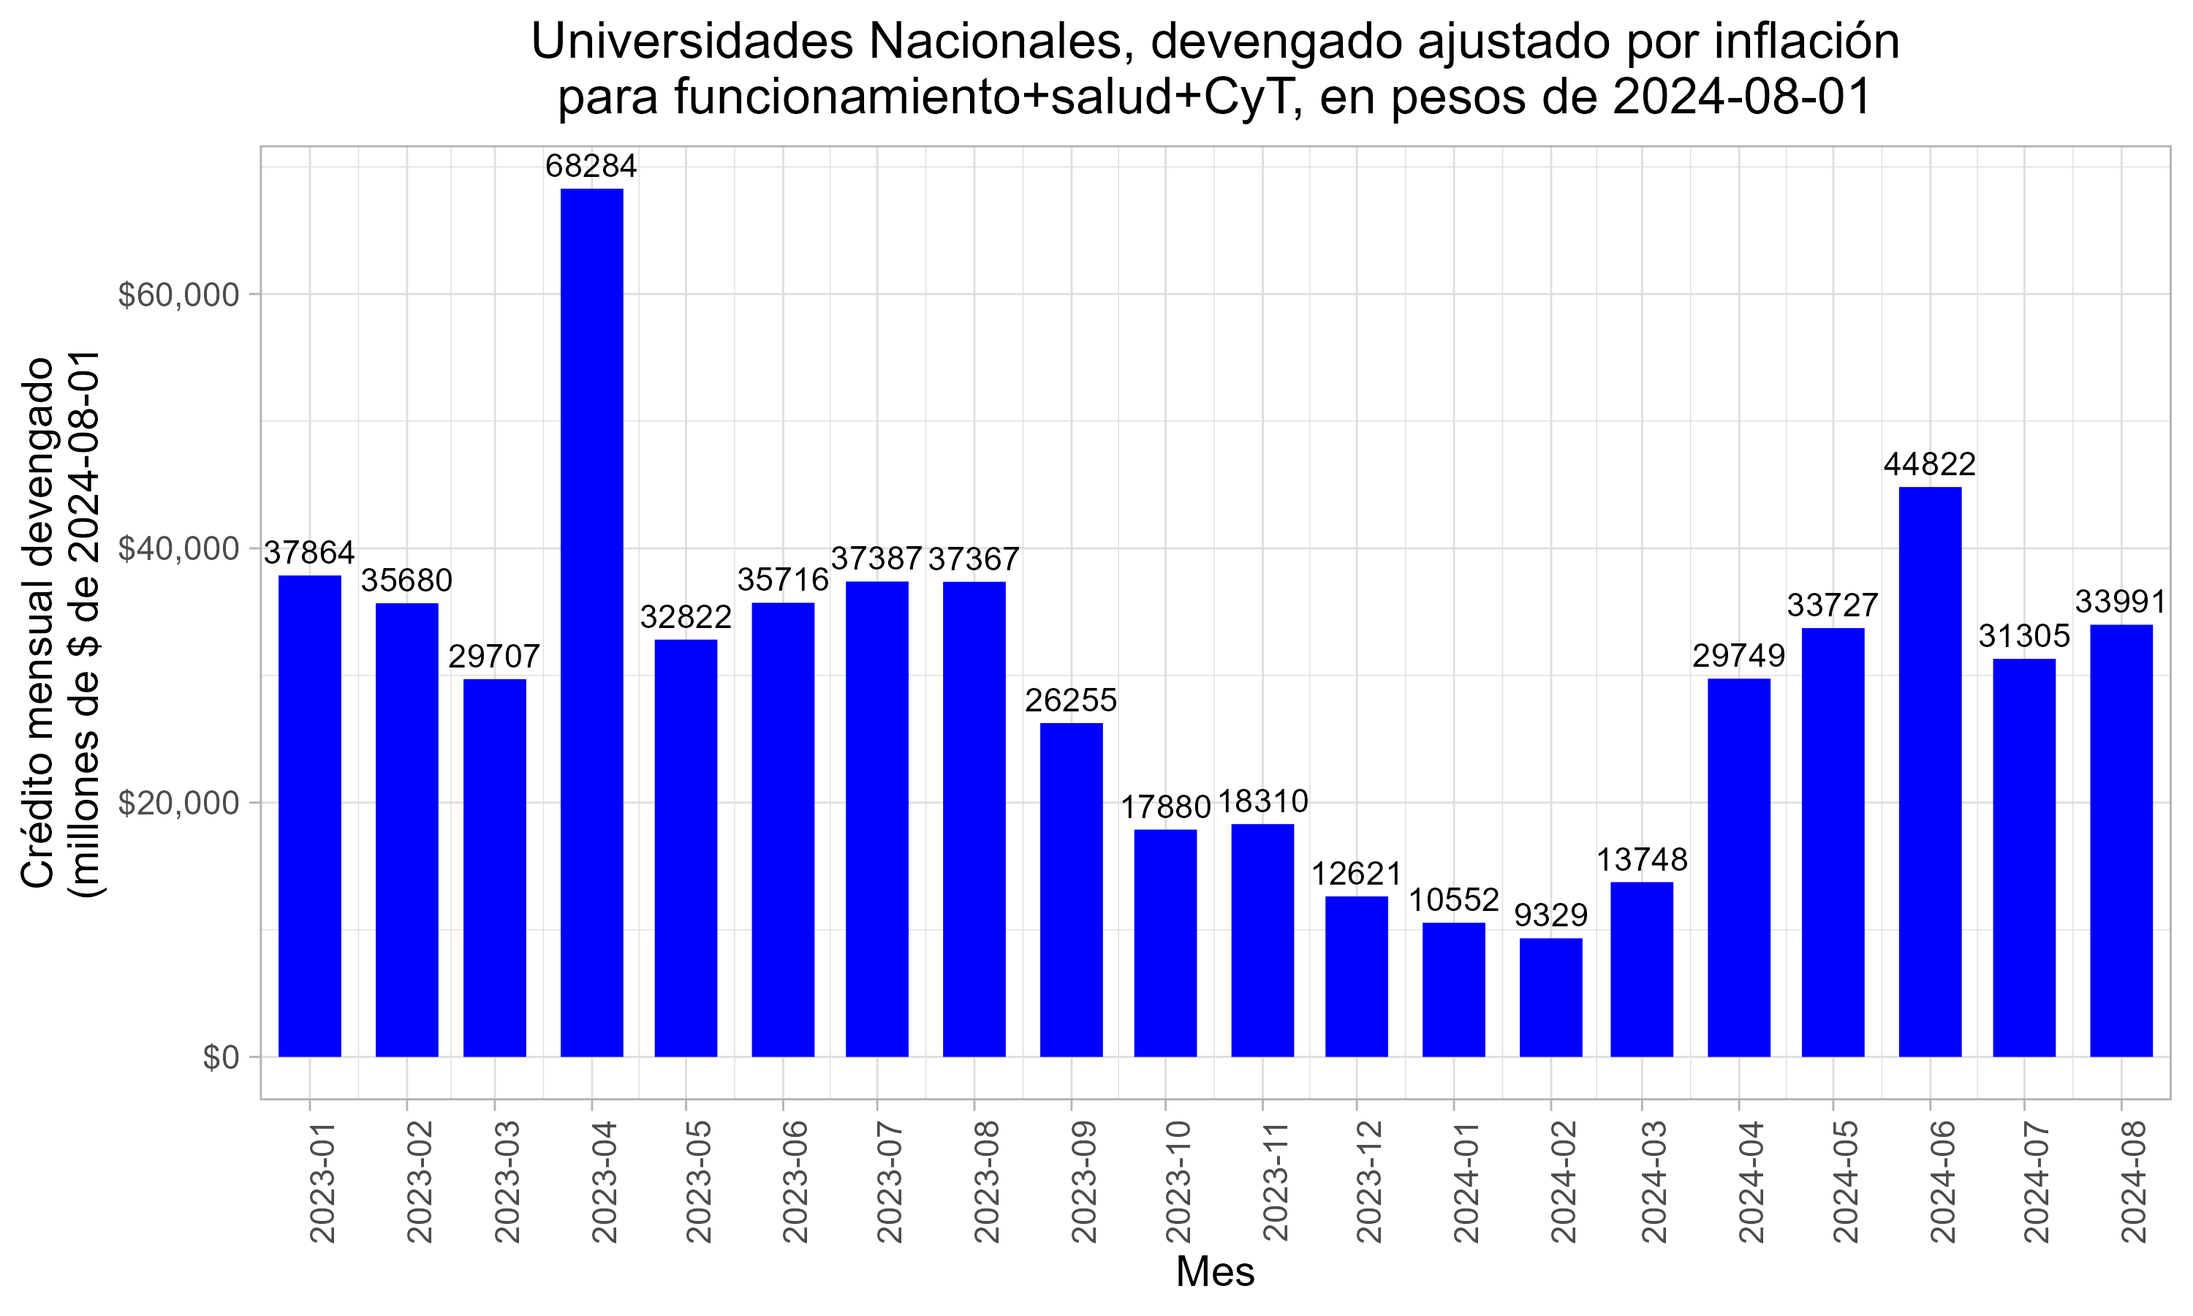
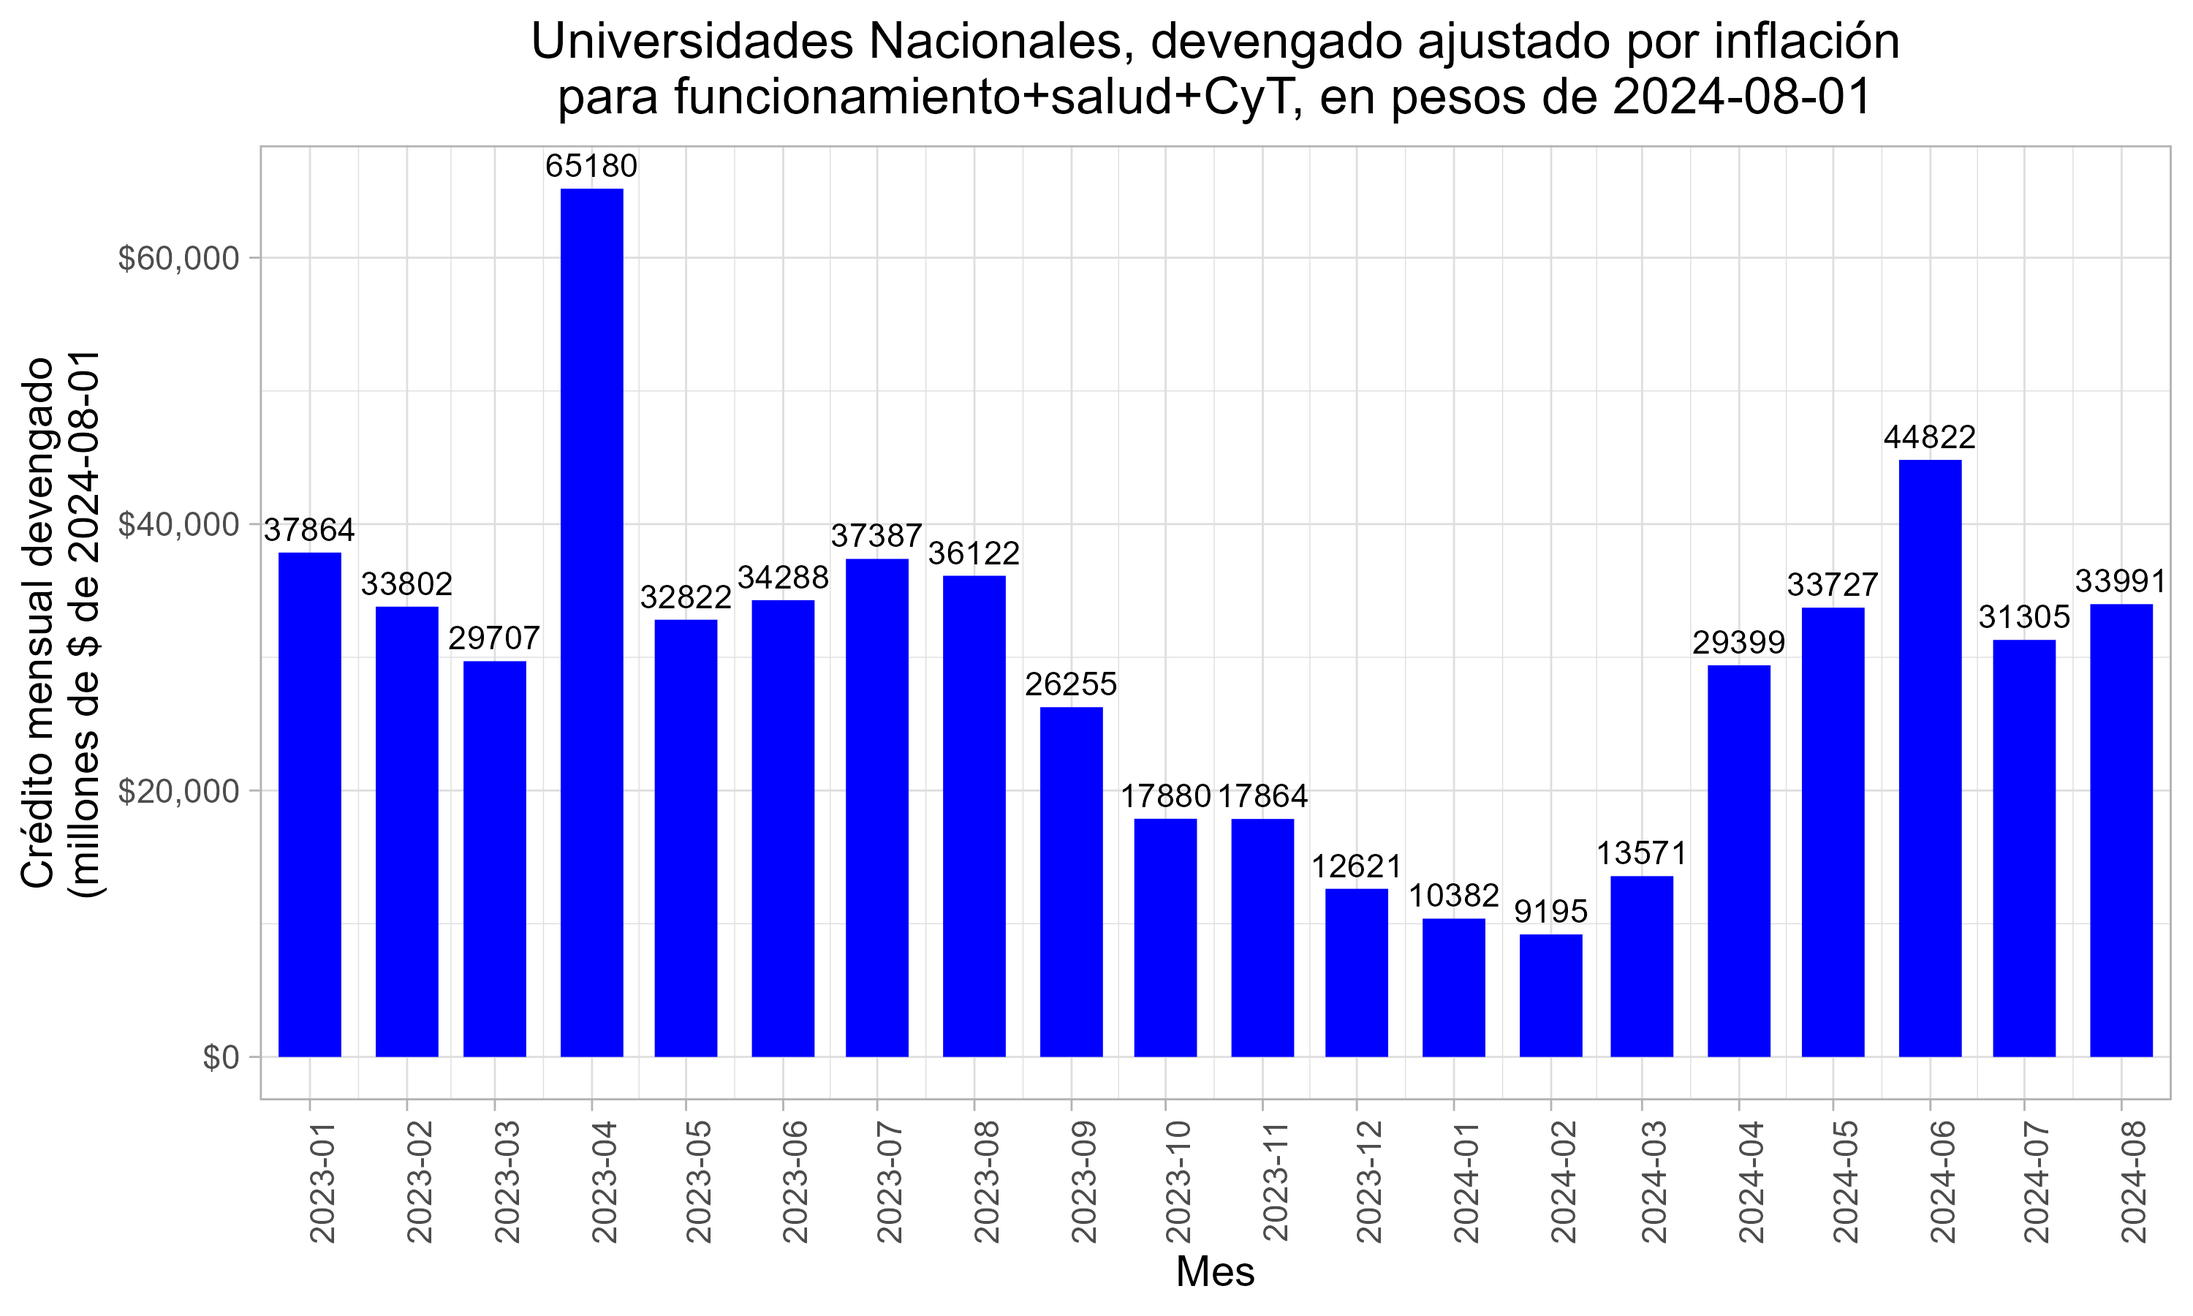
actualizo README

diff --git a/README.md b/README.md
@@ -1,7 +1,7 @@
 Ejecución presupuestaria 2024: Universidades Nacionales argentinas
 =================================================================================
 
-Última actualización 24/04/2024
+Última actualización 11/09/2024
 
  **Dr. Rodrigo Quiroga**  
  Investigador Asistente INFIQC-CONICET  
@@ -57,56 +57,60 @@ También es importante explicar que las Universidades Nacionales en muchos casos
 
 En el siguiente gráfico observamos el presupuesto mensual real (ajustado por inflación) para funcionamiento de todas las Universidades Nacionales del país. Se grafica también el promedio mensual 2023 como una línea punteada verde. Vemos que como explicamos en la introducción, el presupuesto de funcionamiento se fija en 12 cuotas iguales, por lo que los montos ajustados por inflación están por arriba del promedio anual durante los primeros meses del año y luego caen por debajo. Esto ocurre TODOS LOS AÑOS. Lo que no ocurrió, fue el aumento normal que ocurre con un nuevo presupuesto, que debería haber entrado en vigencia en enero de 2024.
 
-![plot](https://github.com/rquiroga7/presupuesto_UNC/blob/main/plot_14_70p_prom.png)
+![plot](https://github.com/rquiroga7/presupuesto_UNC/blob/main/plots/plot_14_70p_prom.png)
 
-Vemos que en Marzo de 2024, se otorgó un aumento del 70% del presupuesto mensual de funcionamiento equivalente a aprox 4 mil millones de pesos. Sin embargo, al ajustar por inflación, observamos que el presupuesto mensual para funcionamiento quedó licuado por la inflación. El monto devengado para funcionamiento en marzo representa aprox el 60% del promedio de 2023. Para equipararse con ese promedio, el aumento debiera haber sido no de 4 mil millones sino de 14 mil millones!
+Vemos que en Marzo de 2024 y en Mayo (luego de la masiva marcha federal universitaria) se otorgaron aumentos del presupuesto mensual de funcionamiento que equiparan aproximadamente los montos recibidos mensualmente durante 2023.
 
-Lo que significa esto a fines prácticos es que las universidades han tenido que suspender actividades y/o están gastando ahorros para cubrir esa diferencia mensual entre lo que recibían el año pasado y éste. Esa diferencia fue de aprox 12 mil millones en enero y febrero y 9 mil millones en marzo. La situación es crítica!
+Además, vale aclarar que con los [aumentos de tarifas de servicios previstos para 2024](https://www.infobae.com/economia/2024/04/05/tarifas-de-gas-todo-lo-que-hay-que-saber-y-de-cuanto-seran-los-nuevos-aumentos/), y el hecho de que [el gobierno eliminó a las instituciones educativas de los subsidios de energía eléctrica](https://www.datadiario.com/sociedad/aumentan-las-facturas-de-luz-para-usuarios-de-mayores-ingresos-20242518120), incluso estos aumentos otorgados resultan insuficientes para afrontar los costos de funcionamiento que aumentaron por encima de la inflación durante 2024.
 
-El nuevo aumento que prometió el gobierno para mayo es nuevamente de 4 mil millones. El presupuesto de funcionamiento de mayo sería aprox de 14 mil millones, pero previendo una inflación de 8% en abril y mayo, eserían necesarios 22 mil millones para equiparar los montos reales de 2023. 
-
-Es decir, para equiparar el presupuesto de funcionamiento 2023, el aumento de mayo debería ser de 12 mil millones en lugar de los 4 mil que anunció el gobierno.
-
-Además, vale aclarar que con los [aumentos de tarifas de servicios previstos para 2024](https://www.infobae.com/economia/2024/04/05/tarifas-de-gas-todo-lo-que-hay-que-saber-y-de-cuanto-seran-los-nuevos-aumentos/), y el hecho de que [el gobierno eliminó a las instituciones educativas de los subsidios de energía eléctrica](https://www.datadiario.com/sociedad/aumentan-las-facturas-de-luz-para-usuarios-de-mayores-ingresos-20242518120), incluso un nuevo aumento del 120% podría ser insuficiente para afrontar los costos operativos del año 2024.
-
-Como vemos, es absolutamente falso lo que declaró el Secretario de Educación Carlos Torrendel el 8 de abril [aquí](https://twitter.com/somoscorta/status/1777322866268139561). Sin dudas existe una política de desfinanciamiento presupuestario de las Universidades, y la situación es absolutamente crítica. Actualmente las Universidades Nacionales están gastando ahorros para poder seguir funcionando en este contexto, y en estos días se difundió la [noticia](https://www.lmneuquen.com/neuquen/no-la-dejemos-morir-la-universidad-nacional-del-comahue-entro-cesacion-pagos-n1104420) de que la Universidad Nacional del Comahue entró en cesación de pagos por no poder afrontar las boletas de servicios. Es la primera Universidad en esta situación, pero si no hay un nuevo aumento urgente del presupuesto de funcionamiento (que debería ser mayor al 70%), seguramente entrarán en cesación de pagos muchas otras universidades y será imposible afrontar la continuidad de las clases en el segundo cuatrimestre del año. 
 </div>
 
 Presupuesto total
 -----------------
-Otro punto importante para aclarar, es que numerosos funcionarios del gobierno nacional están repitiendo el dato falso "en marzo hubo un aumento del 70% del presupuesto universitario", incluso [repetido por el vocero presidencial en conferencia de prensa](https://x.com/somoscorta/status/1776262854003310864). Como vimos arriba, esto es falso porque el aumento del 70% era del presupuesto de funcionamiento, y ese aumento está MUY por debajo del aumento necesario para compensar la inflación y aumento de tarifas. Un aumento nominal similar (de 4 mil millones de pesos) fue anunciado para el mes de mayo de manera no oficial, ya que [dicho aumento aún no fue comunicado formalmente al CIN](https://x.com/CINoficial/status/1781155100582359130).
 
-En el siguiente gráfico observamos el presupuesto mensual real total (ajustado por inflación), de todas las Universidades Nacionales del país. Se grafica también el promedio mensual 2023 como una línea punteada verde (calculado sobre los meses sin aguinaldo). Vemos que como explicamos en la introducción, el presupuesto de funcionamiento se fija en 12 cuotas iguales, por lo que los montos ajustados por inflación están por arriba del promedio anual durante los primeros meses del año y luego caen por debajo. Esto ocurre TODOS LOS AÑOS. Lo que no ocurrió fue el aumento normal que ocurre con un nuevo presupuesto, que debería haber entrado en vigencia en enero de 2024.
+En el siguiente gráfico observamos el presupuesto mensual real total (ajustado por inflación), de todas las Universidades Nacionales del país. Se grafica también el promedio mensual 2023 como una línea punteada verde (calculado sobre los meses sin aguinaldo). Vemos que los presupuestos mensuales asignados están muy por debajo de 2023.
 
-![plot](https://github.com/rquiroga7/presupuesto_UNC/blob/main/plot_all_70p_prom.png)
+![plot](https://github.com/rquiroga7/presupuesto_UNC/blob/main/plots/plot_all_70p_prom.png)
 
 
-**Como vemos en el gráfico, el aumento del 70% anunciado por el gobierno con bombos y platillos en realidad representa un aumento del 2.2% del presupuesto total!**
-No sólo eso, sino que el presupuesto real de marzo está por debajo del presupuesto real de febrero, debido a que los aumentos nominales fueron menores a la inflación de marzo (11.7%). Es claro que los aumentos ofrecidos por el gobierno en marzo y mayo, de 4000 millones de pesos cada uno, representan un porcentaje ínfimo del monto perdido por inflación en comparación al 2023, que es de aproximadamente 80 mil millones de pesos mensuales!
+**Como vemos en el gráfico, los aumentos de gastos de funcionamiento de marzo y mayo (acumulando un 270% aumento interanual) anunciado por el gobierno con bombos y platillos, en realidad representan un aumento del 2.2% del presupuesto total!**
+Es claro que los aumentos ofrecidos por el gobierno en marzo y mayo, representan un porcentaje ínfimo del monto perdido por inflación en comparación al 2023, que es de aproximadamente 80 mil millones de pesos mensuales!
 
 Ejecución presupuestaria anual para el período 2017-2024
 ============
 
-Para poner en contexto histórico el presupuesto 2024, realizamos el siguiente ejercicio. Realizamos la optimista presunción de que el presupuesto se ajustaría por inflación (IPC) a partir de abril, y comparamos ese presupuesto anual ajustado por inflación con años anteriores. Es decir, calculamos cual sería el presupuesto anual para 2024 si no hay aumentos del presupuesto y si a partir de abril se ajusta por IPC. Analizamos primero el presupuesto de funcionamiento y luego el presupuesto total. La proyección anual se realiza teniendo en cuenta tanto el aumento de marzo como el prometido para mayo de 2024.
+Para poner en contexto histórico el presupuesto 2024, realizamos el siguiente ejercicio. Realizamos la optimista presunción de que el presupuesto se ajustaría por inflación (IPC) a partir de octubre, y comparamos ese presupuesto anual ajustado por inflación con años anteriores. Es decir, calculamos cual sería el presupuesto anual para 2024 si no hay aumentos del presupuesto y si a partir de octubre se ajusta por IPC. Estimo el presupuesto de diciembre como noviembre*1.60 debido al medio aguinaldo. 
 
-Presupuesto de funcionamiento (act 14):
-![plot](https://github.com/rquiroga7/presupuesto_UNC/blob/main/presupuesto_anual_func_2017-2024.png)
+Presupuesto total:
+![plot](https://github.com/rquiroga7/presupuesto_UNC/blob/main/plots/presupuesto_anual_2017-2024.png)
 
-Observamos que sin aumentos adicionales, a pesar del aumento de 70% de marzo y el prometido para mayo, el presupuesto de funcionamiento ajustado por inflación para 2024 equivale aproximadamente al 60% del presupuesto de 2023. También podemos observar que el presupuesto de funcionamiento 2024 sería incluso inferior al de 2020, cuando en plena pandemia las Universidades no funcionaron de manera presencial! Debería quedar claro que las Universidades son objeto de un ajuste presupuestario fenomenal, lo cual también confirma las afirmaciones del rector y vicerector de la UBA, quienes dijeron que [sin aumentos presupuestarios significativos será imposible afrontar un funcionamiento normal durante el segundo cuatrimestre](https://www.pagina12.com.ar/726980-la-universidad-publica-al-borde-del-abismo).
+De no haber significativos aumentos durante 2024, el presupuesto universitario del corriente año sería por lejos el menor desde que se comenzaron a recopilar datos de Presupuesto Abierto. El presupuesto ajustado por inflación de 2024 representaría el 80% del presupuesto 2023.
 
-Respecto al Presupuesto total:
-![plot](https://github.com/rquiroga7/presupuesto_UNC/blob/main/presupuesto_anual_2017-2024.png)
 
-De no haber significativos aumentos durante 2024, el presupuesto universitario del corriente año sería por lejos el menor desde que se comenzaron a recopilar datos de Presupuesto Abierto. El presupuesto ajustado por inflación de 2024 representaría el 62% del presupuesto 2023.
+Podemos analizar estos mismos datos con base 100 = el presupuesto de 2017. Este gráfico es un poco más intuitivo. Lo que observamos es que el presupuesto cayó enormemente durante 2019, creció levemente desde 2020-2023 y vuelve a caer fuertemente en 2024.
 
+![plot](https://github.com/rquiroga7/presupuesto_UNC/blob/main/plots/presupuesto_anual_100_2017-2024.png)
+
+
+Sin embargo, esto no alcanza para dimensionar por completo la magnitud de la crisis universitaria, dado que el número de alumnos del sistema universitario nacional ha aumentado considerablemente desde 2017. Realizando el mismo análisis de arriba, pero ajustamos el presupuesto por inflación, pero también por el número total de alumnos universitarios, nuevamente tomando el presupuesto por alumno del año 2017 como base = 100.
+
+![plot](https://github.com/rquiroga7/presupuesto_UNC/blob/main/plots/presupuesto_anual_porest_100_2017-2024.png)
+
+Aquí sí podemos dimensionar la crisis presupuestaria del sistema universitario, observamos que por cada 100 pesos por estudiante que recibían las universidades en 2017, hoy se reciben 48, es decir, menos de la mitad. 
 
 Consideraciones finales
 ============
 
 Aquí termina la parte analítica del informe y comienza una sección con opiniones personales. **La situación presupuestaria de las Universidades es crítica.** Ya se encuentran suspendidos programas valiosísimos de becas, investigación y extensión universitaria, pero aún así, el presupuesto es tan escueto que las universidades están gastando ahorros para poder pagar las tarifas de servicios básicos. Ya entró en cesación de pagos la Universidad Nacional del Comahue, a pesar de que aún no entran en efecto los incrementos de tarifas programados por el gobierno para este año. 
-**Sería necesario un nuevo aumento de 120% (o más, dependiendo de los aumentos de tarifas) del presupuesto de funcionamiento para asegurar la continuidad de las clases durante la segunda mitad del año 2024. De no ocurrir, muchas Universidades deberían cerrar sus puertas para el segundo cuatrimestre.** Esto no es "campaña de miedo" sino un necesario llamado de atención sobre el ajuste *que ya efectuó* el gobierno nacional, pero cuyos efectos aún no vemos en la práctica en algunas universidades simplemente porque aún tienen ahorros para mantener abiertas sus puertas. El CIN debe nuevamente motorizar estos reclamos ante el Ministerio de Capital Humano, pero también creo necesario que comuniquemos ampliamente esta emergencia presupuestaria a docentes, no-docentes y estudiantes. La urgencia de la situación es clara para los rectores, pero no es de amplio conocimiento en la comunidad universitaria. Aún estamos a tiempo de ponernos de pie y defender la Universidad Pública, aunque el tiempo se nos acaba rápidamente y muchas autoridades mantienen un silencio que aturde. 
+**La ley de financiamiento universitario que ya tiene media sanción y se va a tratar mañana 12 de septiembre en el senado, no es una panacea, pero permitiría garantizar la continuidad de las clases, retrotrayendo la situación presupuestaria y salarial a la de noviembre de 2023.** Esto no es "campaña de miedo" sino un necesario llamado de atención sobre el ajuste *que ya efectuó* el gobierno nacional, pero cuyos efectos aún no vemos en la práctica en algunas universidades simplemente porque aún tienen ahorros para mantener abiertas sus puertas. El CIN se ha puesto al frente de estos reclamos ante el Ministerio de Capital Humano, pero también creo necesario que comuniquemos ampliamente esta emergencia presupuestaria a docentes, no-docentes y estudiantes. La urgencia de la situación es clara para los rectores, pero no es de amplio conocimiento en la comunidad universitaria. Aún estamos a tiempo de ponernos de pie y defender la Universidad Pública, aunque el tiempo se nos acaba rápidamente y muchas autoridades mantienen un silencio que aturde. 
 
  *Comentario adicional respecto a la situación salarial docente*  
 Adicionalmente, no entramos en detalles sobre el tema en este informe, pero la pérdida de poder adquisitivo de los docentes universitarios también es un componente crítico que amenaza la continuidad de las clases en la segunda mitad del año. Adicionalmente a las paupérrimas paritarias docentes, la inexistencia de convocatoria a paritaria nacional para discutir el aumento de la garantía salarial lleva a que muchos docentes universitarios jóvenes, con cargos de dedicación simple y antiguedad menor a 5 años hayan recibido aumentos del 0% durante los meses de enero y febrero. Muchos de ellos comienzan a presentar sus renuncias a pesar de su vocación y amor por la docencia. La situación es insostenible.
+
+El gobierno anunció aumentos salariales del 3% y 2% para agosto y septiembre, y ha declarado que  [habría congelamiento de los salarios en octubre, noviembre y diciembre](https://www.eldiarioar.com/economia/gobierno-planifica-congelar-sueldos-estatales-ano-despues-otorgar-3-septiembre-octubre_1_11628962.html). De ser así, y la inflación mensual continúa su tendencia de mantenerse alrededor de 4%, los salarios reales de los docentes más jóvenes de nuestras universidades habrían perdido la mitad de su poder adquisitivo en 1 año de gobierno de Javier Milei.
+
+
+![plot](https://github.com/rquiroga7/presupuesto_UNC/blob/main/plots/salario_profesor_ayudante_ds.png)
+Podemos observar esto en el gráfico de salario mensual de bolsillo de un profesor ayudante A (DS) en azul, que en diciembre de 2024 cobraría 145 mil pesos mensuales, cuando su sueldo de noviembre de 2023 ajustado por inflación sería de 297 mil pesos, más del doble!
 
 Para descargar este informe en versión PDF, click [aquí](https://github.com/rquiroga7/presupuesto_UNC/raw/main/informe_pres_univ.pdf?raw=1).
